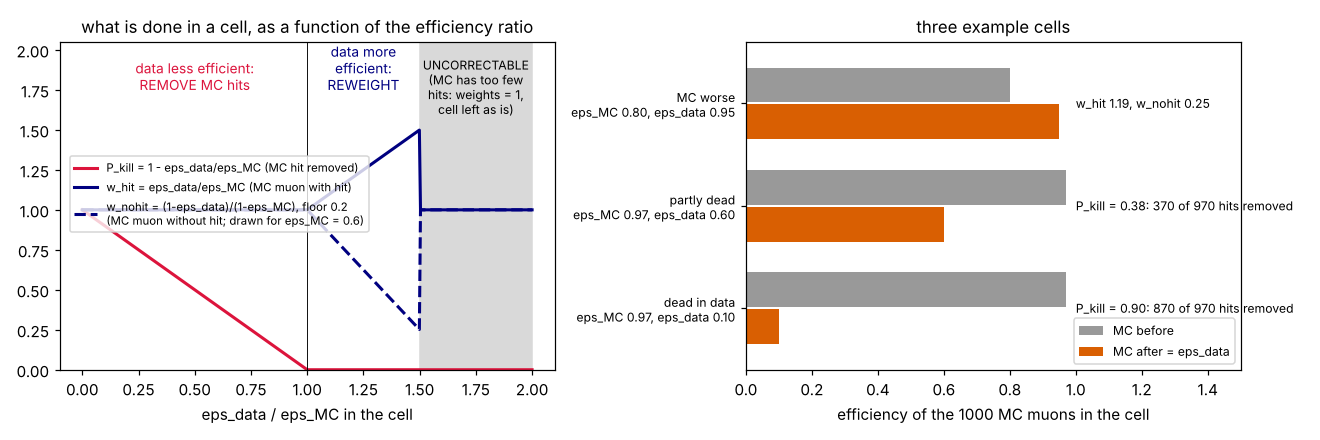
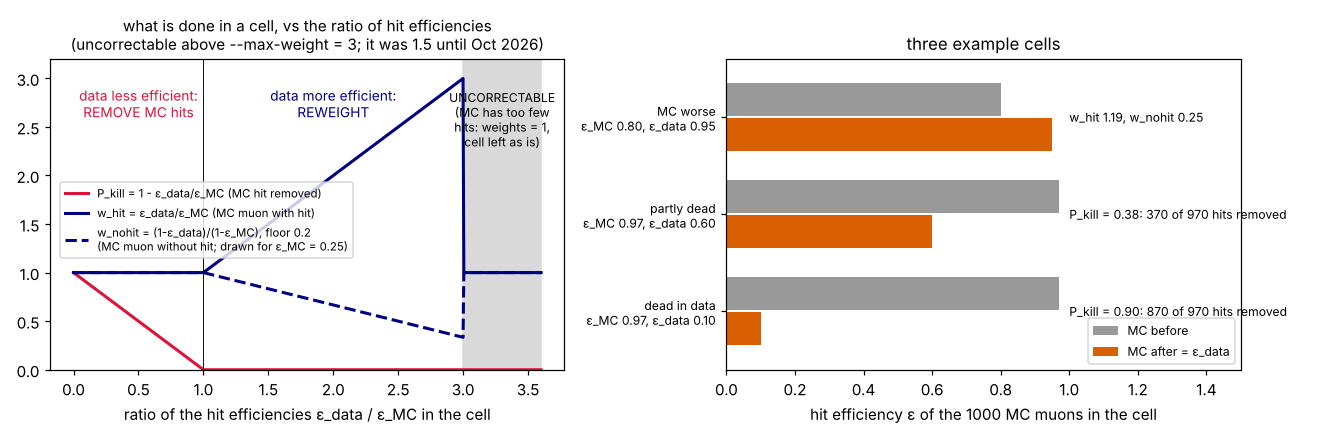
HITEMU.md: spell out eps (= hit efficiency), abbreviations table, real 2026 pages instead of synthetic ones
- figures: f = drawings / real numbers, r = real 2026 script pages, s = synthetic
  (only the route A/B pages remain synthetic: routes not yet run on real data)
- plots of the scripts label eps as 'hit efficiency (eps)'
- f06 redrawn for the cap of 3

Claude-Session: https://claude.ai/code/session_01RJFvZDqk7RAuPdwvriR8KC

diff --git a/build_kill_maps.py b/build_kill_maps.py
@@ -248,6 +248,7 @@ def report_lines(km, runs, tab, segs, a):
          '            (at most %d ranges, each >= %d L1 probes, split gain > %g in -2lnL)'
          % (a.max_ranges, km.meta['min_den_per_range'], a.min_gain),
          'MC share  : %s' % km.meta['lumi_kind'],
+         'eps       = HIT EFFICIENCY of a cell = probes with a valid hit / probes (eps_data: data, eps_MC: MC)',
          'P_kill    = 1 - eps_data/eps_MC where eps_data < eps_MC (else 0)',
          'weights   = eps_data/eps_MC (hit) and (1-eps_data)/(1-eps_MC) (no hit)',
          '            where eps_data > eps_MC: bounded by 1/eps_MC',
@@ -322,7 +323,7 @@ def plot(km, runs, tab, segs, lines, stem, a):
             ax.hlines(e, i - 0.5, j - 0.5, color='#d95f02', lw=2)
             if i > 0:
                 ax.axvline(i - 0.5, color='#1b9e77', lw=1, ls='--')
-        ax.set_ylabel('eps_data(%s), per run' % lab)
+        ax.set_ylabel('hit efficiency eps_data(%s), per run' % lab)
     step = max(1, len(runs) // 14)
     axes[-1].set_xticks(idx[::step])
     axes[-1].set_xticklabels([str(r) for r in runs[::step]], rotation=45, fontsize=8)
@@ -344,21 +345,25 @@ def plot(km, runs, tab, segs, lines, stem, a):
                 M = km.eps_d[s][k] if what == 'eps_data' else \
                     np.where(np.isfinite(km.eps_d[s][k]), km.p_kill[s][k], np.nan)
                 ax = P.draw_map(fig, (nrow, ncol, k + 1), surf, M,
-                                'range %d: %d-%d' % (k, *km.ranges[k]), cmap, vmin, vmax, what)
+                                'range %d: %d-%d' % (k, *km.ranges[k]), cmap, vmin, vmax,
+                                {'eps_data': 'data hit efficiency (eps_data)',
+                                 'P_kill': 'P_kill = 1 - eps_data/eps_MC'}[what])
                 ax.title.set_fontsize(9)
-            fig.suptitle('%s %s per run range, epoch %s' % (s, what, a.epoch), fontsize=12)
+            fig.suptitle('%s %s per run range, epoch %s' % (
+                s, {'eps_data': 'data hit efficiency eps_data', 'P_kill': 'kill probability P_kill'}[what],
+                a.epoch), fontsize=12)
             fig.tight_layout()
             book.add(fig, '%s_%s' % (s.replace('+', 'p').replace('-', 'm'), what))
         fig = plt.figure(figsize=(18, 5.6) if s == 'L1' else (18, 6.2))
         ed = km.lumi_avg_eps_data(s)
-        P.draw_map(fig, (1, 3, 1), surf, ed, 'eps_data, luminosity-weighted over ranges',
-                   'viridis', 0, 1, 'eps_data')
-        P.draw_map(fig, (1, 3, 2), surf, km.eps_m[s], 'eps_MC (PU-weighted, after fallback)',
-                   'viridis', 0, 1, 'eps_MC')
+        P.draw_map(fig, (1, 3, 1), surf, ed, 'data hit efficiency eps_data, luminosity-weighted over ranges',
+                   'viridis', 0, 1, 'hit efficiency, data (eps_data)')
+        P.draw_map(fig, (1, 3, 2), surf, km.eps_m[s], 'MC hit efficiency eps_MC (PU-weighted, after fallback)',
+                   'viridis', 0, 1, 'hit efficiency, MC (eps_MC)')
         wmax = np.where(km.uncorrectable[s].any(0), np.nan, km.w_hit[s].max(0))
         P.draw_map(fig, (1, 3, 3), surf, np.where(np.isfinite(ed), wmax, np.nan),
                    'largest hit weight over ranges\n(grey inside acceptance: uncorrectable)',
-                   'Blues', 1, km.max_weight, 'eps_data/eps_MC')
+                   'Blues', 1, km.max_weight, 'ratio of hit efficiencies eps_data/eps_MC')
         fig.suptitle('%s summary, epoch %s' % (s, a.epoch), fontsize=13)
         fig.tight_layout()
         book.add(fig, '%s_summary' % s.replace('+', 'p').replace('-', 'm'))

diff --git a/pixel_eff_maps.py b/pixel_eff_maps.py
@@ -739,8 +739,8 @@ def page_main(book, s, ed, em, epoch):
     # percent-level structure elsewhere is not washed out by them.
     lim = np.nanpercentile(np.abs(delta), 95) if np.isfinite(delta).any() else 0.1
     lim = float(np.clip(lim, 0.02, 0.2))
-    draw_map(fig, (1, 3, 1), s, ed, 'data: eps = probes with a hit / probes', 'viridis', 0, 1, 'eps_data')
-    draw_map(fig, (1, 3, 2), s, em, 'MC (PU-weighted)', 'viridis', 0, 1, 'eps_MC')
+    draw_map(fig, (1, 3, 1), s, ed, 'data: eps = probes with a hit / probes', 'viridis', 0, 1, 'hit efficiency, data (eps_data)')
+    draw_map(fig, (1, 3, 2), s, em, 'MC (PU-weighted)', 'viridis', 0, 1, 'hit efficiency, MC (eps_MC)')
     draw_map(fig, (1, 3, 3), s, delta, 'eps_data - eps_MC', 'RdBu_r', -lim, lim, 'eps_data - eps_MC')
     fig.suptitle('%s hit efficiency, epoch %s    (grey = fewer than the minimum '
                  'number of probes)' % (s.name, epoch), fontsize=13)
@@ -830,7 +830,7 @@ def page_projections(book, s, rd, rm, epoch):
         eb(ax, x, xerr, em, sm, 'MC', '#d95f02', 's')
         lo = np.nanmin(np.concatenate([ed, em])) if np.isfinite(np.concatenate([ed, em])).any() else 0
         ax.set_ylim(max(0.0, lo - 0.05), 1.01)
-        ax.set_ylabel('eps(%s)' % s.name)
+        ax.set_ylabel('hit efficiency eps(%s)' % s.name)
         ax.legend(loc='lower left')
         plt.setp(ax.get_xticklabels(), visible=False)
         with np.errstate(divide='ignore', invalid='ignore'):
@@ -908,7 +908,7 @@ def page_runs(book, rd, bases, a, epoch):
         ax.errorbar(idx, eps, yerr=err, fmt='o', ms=3, color='k', elinewidth=0.8)
         tot = n.sum() / d.sum()
         ax.axhline(tot, color='#d95f02', lw=1, label='epoch average %.4f' % tot)
-        ax.set_ylabel('eps_data(%s)' % b)
+        ax.set_ylabel('hit efficiency eps_data(%s)' % b)
         step = max(1, len(g) // 12)
         ax.set_xticks(idx[::step])
         ax.set_xticklabels(['%d' % x[0] for x in g][::step], rotation=45, fontsize=8)

diff --git a/emulate_hit_loss.py b/emulate_hit_loss.py
@@ -673,10 +673,11 @@ def plots(a, km, lines, ctx, maps, tgt, mcnat, var, sig_d, sig_m, ab, AB_EDGES, 
         e_dat, e_emu, diff = r['maps']
         fig = plt.figure(figsize=(18, 5.6) if s == 'L1' else (18, 6.2))
         P.draw_map(fig, (1, 3, 1), surf, e_dat, 'data, measured (cells with >= %g probes)'
-                   % km.min_cell, 'viridis', 0, 1, 'eps')
-        P.draw_map(fig, (1, 3, 2), surf, e_emu, 'MC after emulation', 'viridis', 0, 1, 'eps')
-        P.draw_map(fig, (1, 3, 3), surf, diff, 'emulated MC - data (measured cells): %+.4f'
-                   % (r['emu_meas'] - r['data_meas']), 'RdBu_r', -0.1, 0.1, 'difference')
+                   % km.min_cell, 'viridis', 0, 1, 'hit efficiency (eps)')
+        P.draw_map(fig, (1, 3, 2), surf, e_emu, 'MC after emulation', 'viridis', 0, 1,
+                   'hit efficiency (eps)')
+        P.draw_map(fig, (1, 3, 3), surf, diff, 'hit efficiency, emulated MC - data (measured cells): %+.4f'
+                   % (r['emu_meas'] - r['data_meas']), 'RdBu_r', -0.1, 0.1, 'hit efficiency difference')
         fig.suptitle('%s per-cell closure, epoch %s' % (s, a.epoch), fontsize=13)
         fig.tight_layout()
         book.add(fig, '%s_closure' % s.replace('+', 'p').replace('-', 'm'))

diff --git a/noL1_data_study.py b/noL1_data_study.py
@@ -406,6 +406,7 @@ def summary_lines(a, counts, hist, fit, test):
          'W1 hit present, working cell (eps >= %.2f)   W0 hit missing, working cell'
          % a.eps_working,
          'D0 hit missing, dead cell (eps <= %.2f)       "missing" = next layer/disk is the first'
+         '\neps = HIT EFFICIENCY of the cell in data (probes with a valid hit / probes)'
          % a.eps_dead, '']
     for fam in FAMILIES:
         c = counts[fam]

diff --git a/HITEMU.md b/HITEMU.md
@@ -2,7 +2,13 @@
 
 *What the scripts `build_kill_maps.py`, `noL1_data_study.py` and `emulate_hit_loss.py` do, why, how to read their output, and what the first 2026 test showed.*
 
-Figures with a name starting with `f` are drawings, or are made from real 2026 numbers: the full-2026 efficiency maps of `pixel_eff_maps.py` and the 300k-event test of October 2026. Figures with a name starting with `s` are pages of the scripts' own PDFs, produced on **synthetic** samples. They show what a page looks like, not CMS results.
+Figure names tell where a figure comes from:
+
+- **`f…`**: drawings, or plots made from real 2026 numbers;
+- **`r…`**: pages of the scripts' own PDFs, run on the **real 2026 data and Summer24 MC** (October 2026);
+- **`s…`**: pages produced on **synthetic** samples. Only two are left (the route A/B pages in section 7.4), because routes A and B have not been run on real data yet. They show what those pages look like, not CMS results.
+
+**ε, written `eps` in the code, plots and logs, is not an acronym:** it is the Greek letter epsilon and always means **hit efficiency** (section 1).
 
 ---
 
@@ -68,6 +74,31 @@ Reweighting MC in (pt, η, φ, z0) to the data hit pattern does not work: the hi
 | **TV (total variation)** | distance between two distributions: ½ Σ \|f_data − f_MC\|. 0 = identical, 1 = disjoint. It equals the fraction of MC tracks that would have to change category to match data (section 5). |
 | **W1, W0, D0** | data tracks crossing a working L1 cell with a hit (W1) or without a hit (W0), and crossing a dead L1 cell, hence without a hit (D0) (section 6). |
 | **route A, route B** | two independent ways to compute the covariance of an MC track after its hit is removed (section 7). |
+
+**Abbreviations and symbols**
+
+| short | spelled out |
+|---|---|
+| **ε, `eps`** | **hit efficiency** (Greek epsilon; not an acronym). `eps_data`, `eps_MC`: in data, in MC. `--eps-dead`, `--eps-working`: hit-efficiency thresholds for dead and working cells |
+| BPix, FPix | barrel pixel detector, forward pixel detector |
+| L1–L4 | BPix layers 1–4 (L1 innermost, r = 2.9 cm) |
+| D1–D3, D1± | FPix disks 1–3; + / − = the disk at positive / negative z |
+| ROC | readout chip: a pixel module is read by 16 ROCs; the L1 cells are one ROC wide in z |
+| PV | primary vertex |
+| PCA | point of closest approach of the track to the beam line (where its parameters are given) |
+| PU | pile-up; `pu_weight_<year>` reweights the MC pile-up to data |
+| MC | Monte Carlo simulation (here Summer24 for 2024–2026) |
+| P_kill | probability to remove an MC hit in a cell |
+| w_hit, w_nohit | weights of MC muons with / without the hit in cells where data has the higher hit efficiency |
+| W1, W0, D0 | Working cell with hit, Working cell without hit, Dead cell (without hit) |
+| TV | total variation (distance between two distributions) |
+| KS | Kolmogorov–Smirnov distance (largest difference of two cumulative distributions) |
+| C, C′ | track covariance matrix (5×5) before / after removing a hit |
+| H, V | how the hit position depends on the track parameters (2×5); hit position error (2×2) |
+| PD | positive definite (a valid covariance matrix) |
+| σ(d_xy), σ(d_sz) | uncertainties of the transverse and longitudinal impact parameters |
+| IP | impact parameter |
+| q/p, λ, φ, d_xy, d_sz | the five track parameters: charge/momentum, dip angle, azimuth, transverse and longitudinal impact parameters |
 
 ---
 
@@ -222,9 +253,9 @@ Two checks, both in `emu_<epoch>.pdf` and in the printed summary.
 
 By construction emulated = data, except in uncorrectable cells (MC stays lower) and through the fallback approximations. (The first version compared with the kill-map values instead of the raw counts, which in sparse cells are the fallback values themselves. That hid where the problem was; see section 9.3.)
 
-![s02](docs/hitemu_figs/s02_emu_L1closure.png)
+![r05](docs/hitemu_figs/r05_full_L1_closure.png)
 
-*Synthetic example: data map, emulated MC map, difference. The difference should be noise, plus blue spots in uncorrectable cells.*
+*Real page, full 2026, L1. Left: measured data hit efficiency ε per cell. Middle: hit efficiency of the emulated MC. Right: emulated − data. The difference is noise in the centre, with a few structured cells at |z| > 15 cm; the average is −0.0030 (section 9.7).*
 
 **Context closure.** This is what covflow actually sees. Two distributions are compared, in each \|η\| bin:
 
@@ -237,9 +268,15 @@ Each is compared for data, MC before and MC emulated, and summarised by the tota
 
 *What a TV number means: 0.10 = 10% of the MC muons are in the wrong category. "MC before 0.315, emulated 0.063" means the fraction of misplaced MC muons fell from 31% to 6%.*
 
-![s03](docs/hitemu_figs/s03_emu_context.png)
+![r06](docs/hitemu_figs/r06_full_context.png)
 
-*Synthetic example of the context page: first BPix layer (top) and first FPix disk (bottom) per |η| bin. Black data, grey MC before, orange MC emulated. The page now has a third row with the number of pixel hits. The real 2026 page is in section 9.5.*
+*Real context page, full 2026. Per |η| bin (columns):*
+
+- *top: first BPix layer;*
+- *middle: first FPix disk;*
+- *bottom: number of pixel hits.*
+
+*Black: data. Grey: MC before. Orange: MC after the emulation. The orange points follow the black ones at L1 and L2 but stay ~10× below them at L3/L4, at D3, and in the low-hit tail. That is the missing L2/L3/D2 loss of section 9.2.*
 
 ---
 
@@ -266,9 +303,9 @@ It then compares the distributions of log10 σ of the five track parameters for 
 - **W0 ≈ D0** (median shift < 0.01 in log10 σ, i.e. 2%; width ratio < 1.1; KS < 0.05): the no-L1 tracks in data are one population. Route A's target is clean.
 - **W0 ≠ D0:** the no-L1 data tracks are a mixture. Route A would give the emulated losses the wrong tails. Use route B, or take the target from D0 only.
 
-![s06](docs/hitemu_figs/s06_nol1_mixture.png)
+![r08](docs/hitemu_figs/r08_nol1_L1_data.png)
 
-*Synthetic example: a 3% population of "rejected hit" tracks was injected in the data on L1. W0 (orange) shows a tail that D0 (black) does not have, and the test flags it. On D1 nothing was injected and W0 = D0.*
+*Real page, full 2026 data, L1: log10 σ of the five track parameters for W1 (blue, with hit), W0 (orange) and D0 (black), all reweighted to D0. W0 lies on D0 (one population, the test passes; section 9.8), and both are ~0.2 in log10 above W1 in σ(d_xy) and σ(d_sz). A failing test would show W0 with its own tail or shifted peak.*
 
 The same script also fits the **hit errors V** used by route B (section 7.2), and with `--sample mc` it does the same on MC.
 
@@ -315,13 +352,33 @@ The ingredients:
 - **H (2×5):** how the hit position (two local coordinates on the module) moves when the five track parameters (q/p, λ, φ, d_xy, d_sz) move. Computed from the helix by finite differences.
 - **V (2×2):** the hit position error, diag(σ_u², σ_v²), per surface and \|η\| bin. It is not in the ntuple, so `noL1_data_study.py` **fits** it: V is chosen so that W1 tracks (with the hit), after removing it, have the same median σ(d_xy) and σ(d_sz) as D0 tracks (without it) at the same (pt, η, position). A V that is too large removes too little information; one that is too small removes too much.
 
-The result is MC-like ("B, raw"). covflow then corrects it like any MC track ("B, final"). The check "B, raw against MC's own tracks without L1" must close, and it does on synthetic samples to within 0.01 in log10 σ.
+The result is MC-like ("B, raw"). covflow then corrects it like any MC track ("B, final"). The check "B, raw against MC's own tracks without L1" must close. It does on synthetic samples (within 0.01 in log10 σ), but **not on real 2026 data and MC beyond |η| ≈ 0.5** with one V per |η| bin (section 9.8).
 
-![s07](docs/hitemu_figs/s07_nol1_V.png)
+![r11](docs/hitemu_figs/r11_nol1_V_data.png)
 
-*Synthetic example: fitted effective hit errors per |η| bin for L1 and D1. A bin with too few D0 tracks is flagged UNCONSTRAINED and takes its value from the neighbours, or from another sample or epoch (`--hit-errors a.json b.json`, first file with a fit wins).*
+*Real page, full 2026 data: fitted hit errors per |η| bin; left σ_u (rφ), right σ_v (z on L1, r on D1).*
+
+- *L1: σ_u ≈ 34–42 µm, while σ_v rises from 54 to 213 µm with |η|. Above |η| = 0.5 these values are pinned by the positive-definiteness limit and are too large (section 9.8).*
+- *D1: at the 500 µm upper limit, flagged UNCONSTRAINED. Removing D1 changes nothing measurable.*
+
+*A bin without a fit takes its value from the neighbours, or from another file (`--hit-errors a.json b.json`, first file with a fit wins).*
 
 ### 7.4 What the route pages show
+
+Real 2026 page **without routes** (they have not been run on real data yet):
+
+![r07](docs/hitemu_figs/r07_full_L1_cov.png)
+
+*Full 2026, the MC muons that lost L1 in the emulation:*
+
+- *grey dashed: their unchanged "with L1" covariance;*
+- *black solid: the target, data tracks in dead L1 cells;*
+- *black dotted: all data tracks without L1;*
+- *blue dotted: MC tracks that naturally lack L1.*
+
+*In σ(d_xy) and σ(d_sz) the grey curve is ~0.25 in log10 below the target. This gap is what the routes must close.*
+
+With routes the same page gains three curves. Until they are run on real data, here is a **synthetic** example:
 
 ![s04](docs/hitemu_figs/s04_emu_routesL1.png)
 
@@ -337,7 +394,7 @@ The result is MC-like ("B, raw"). covflow then corrects it like any MC track ("B
 
 ![s05](docs/hitemu_figs/s05_emu_AvsB.png)
 
-*Synthetic example: route A against route B (final), track by track, in log10 σ(d_xy) and σ(d_sz). A narrow diagonal means the two routes agree for each track, not only on average.*
+*Synthetic example (no real equivalent yet): route A against route B (final), track by track, in log10 σ(d_xy) and σ(d_sz). A narrow diagonal means the two routes agree for each track, not only on average.*
 
 ---
 
